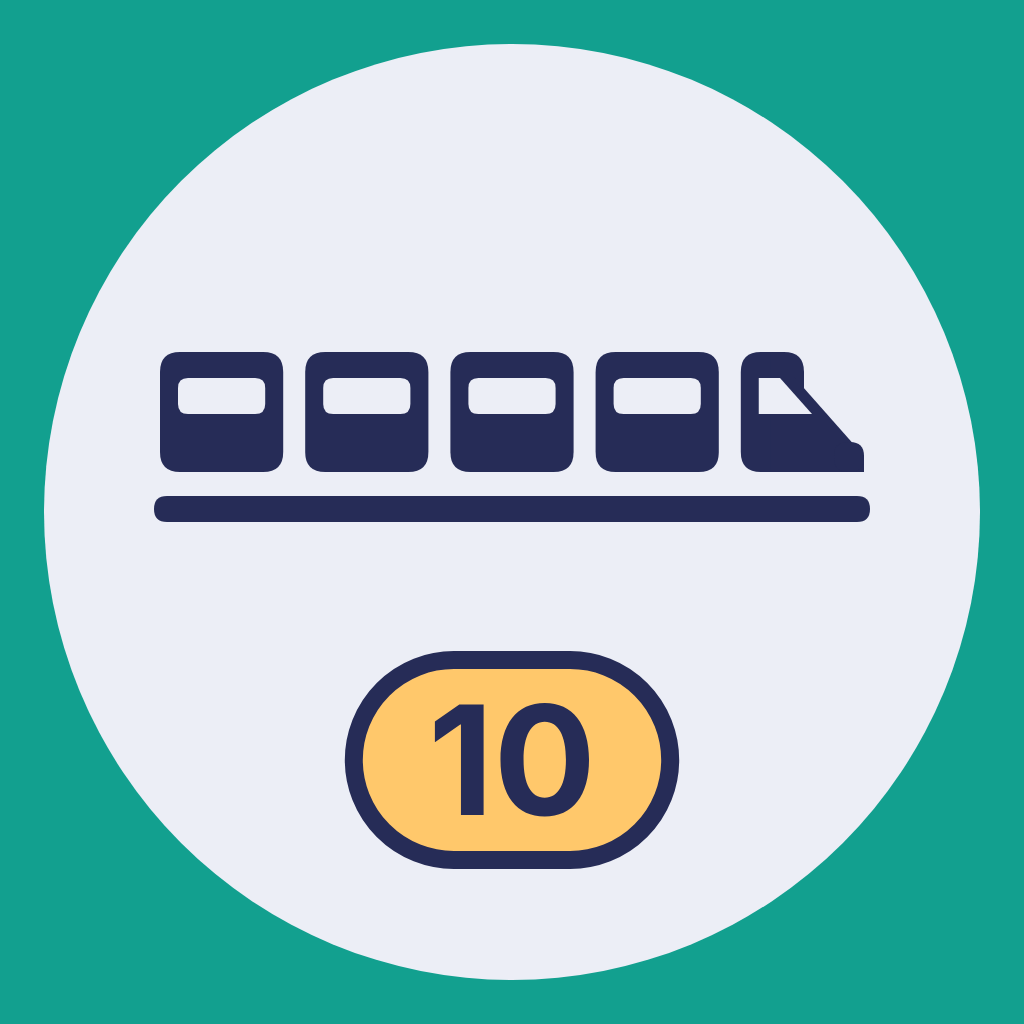
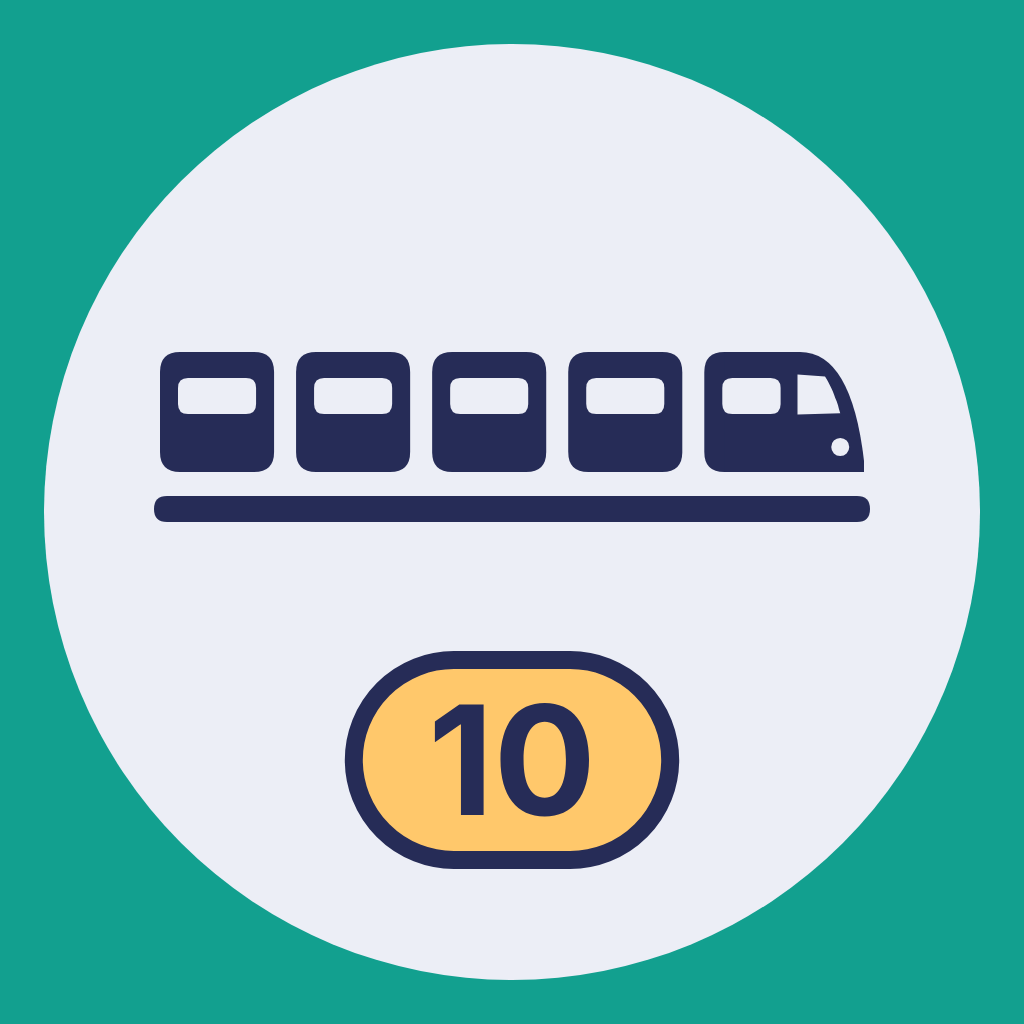
Game Center images: streamlined nose on longTrain, bogies and rail under mixedFleet's EMU (decision 396)
longTrain's lead car is longer and its front slopes from the roof to near
the bottom, with a raked windscreen and a headlight. mixedFleet's commuter
car stands on a thin rail on two small bogies instead of four large wheels.
overview.png changes only in these two cells.

Claude-Session: https://claude.ai/code/session_01EL7ehqdJzTq2U1tbo3TsZo

Changed region(s): [[0.5, 0.3438, 0.8438, 0.4688], [0.375, 0.3438, 0.4688, 0.4688], [0.25, 0.3438, 0.3438, 0.4688]]

diff --git a/docs/game-center/README.md b/docs/game-center/README.md
@@ -46,10 +46,10 @@
 - 車種齊全：三個正面車頭並排站在同一段軌道上，中間最前面是通勤電聯車（方形車身、大擋風窗、兩顆頭燈），左後是高鐵（圓頂、弧形擋風窗），右後是蒸汽機車（圓形煙室門、煙囪）。原本側面和正面混在一起，又像擺在架子上（作者：「有點怪怪的」）。
 
 第三輪審查（標準：不看標題，玩家看圖猜得到是哪個成就；PR #1158 的審查留言）之後改了 9 張：
-- 車種齊全：三台車都畫側面、車頭朝右，排成三角形，彼此分開，不共用軌道：上面是單節通勤電聯車（車頂有集電弓），左下是騰雲號的剪影，右下是子彈列車的車頭（拿掉速度線）。原本三台的角度不同，擠在一起，40 px 下只剩一塊。
+- 車種齊全：三台車都畫側面、車頭朝右，排成三角形，彼此分開，不共用軌道：上面是單節通勤電聯車（車頂有集電弓，車底兩組小轉向架，站在一條細軌上），左下是騰雲號的剪影，右下是子彈列車的車頭（拿掉速度線）。原本三台的角度不同，擠在一起，40 px 下只剩一塊。
 - 一日遊：導遊舉著三角旗（原本只有一台相機，像相機 App，又和觀光旺季同圖）。
 - 觀光旺季：同一面三角旗加相機，標籤 100K 不變。兩張靠三角旗看得出是同一系列。
-- 長編組：一列 5 節的細長列車，每節一條窗帶，最後一節是斜的車頭，下面一條軌道（原本的三個方塊加一排圓點像機櫃或錄音帶）。
+- 長編組：一列 5 節的細長列車，每節一條窗帶，領頭那節較長，前端從車頂斜到接近底部的流線車頭，有斜的擋風窗和一顆頭燈，下面一條軌道（原本的三個方塊加一排圓點像機櫃或錄音帶）。
 - 繞圈圈：兩條軌道圍成橢圓，枕木在兩軌之間，中間留空（原本中間的長圓讓它像露牙的嘴）。
 - 建商起步：蓋到一半的樓加一座塔吊（原本的小房子像「首頁」按鈕）。
 - 第一噸貨：平車載一個貨櫃的側面（原本的立方體像 3D 圖示）。
